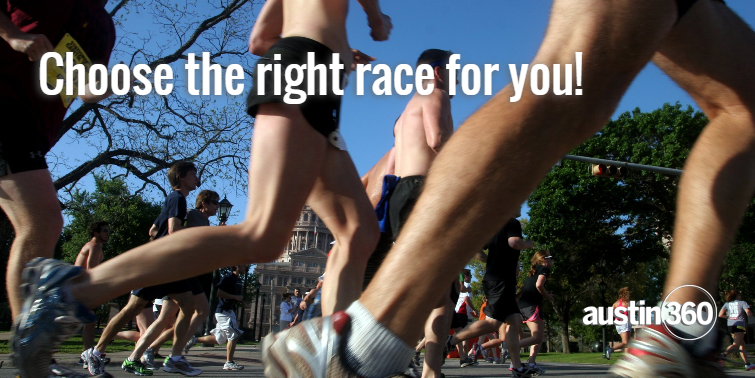
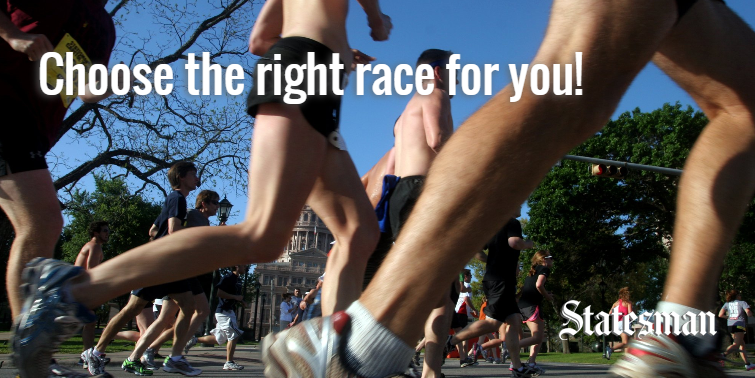
sharing image updates

Changed region(s): [[0.7311, 0.7566, 0.9748, 0.9021]]

diff --git a/index.php b/index.php
@@ -8,7 +8,7 @@
       $meta = array(
         'title' => 'Choose your running event game',
         'description' => 'Use this choose your own adventure game to find the Central Texas running event that fits your interests.',
-        'thumbnail' => 'http://projects.statesman.com/features/choose-your-race/assets/choose-your-race-share.png',
+        'thumbnail' => 'http://projects.statesman.com/features/choose-your-race/assets/choose-your-race/choose-your-race-share.png',
         'url' => 'http://projects.statesman.com/features/choose-your-race/'
       );
     ?>

diff --git a/pages/races.php b/pages/races.php
@@ -8,7 +8,7 @@
       $meta = array(
         'title' => 'Central Texas running events',
         'description' => 'Find the best running event for your tastes and style.',
-        'thumbnail' => '',
+        'thumbnail' => 'http://projects.statesman.com/features/choose-your-race/assets/choose-your-race/choose-your-race-share.png',
         'url' => 'http://projects.statesman.com/features/choose-your-race/'
       );
     ?>
